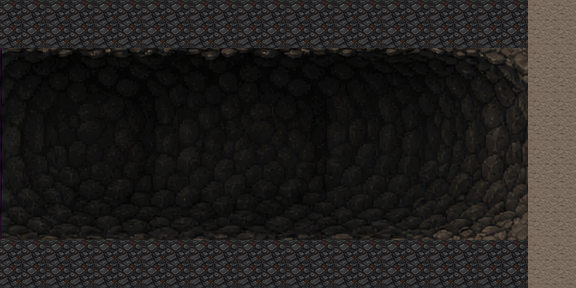
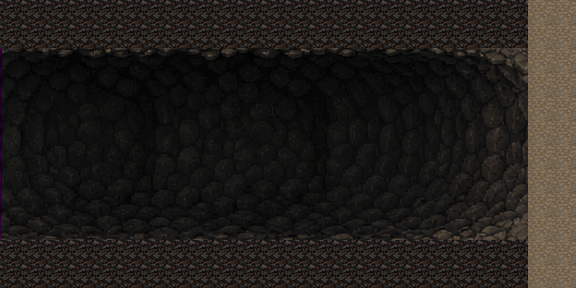
fix: place generated earth and bedrock in atlas

Changed region(s): [[0.0, 0.0, 1.0, 1.0]]

diff --git a/src/scenes/GameScene.ts b/src/scenes/GameScene.ts
@@ -24,7 +24,7 @@ import { atlasFrameForTile, backwallFrameForTile, tileKey, worldToTile } from '.
 type CursorKeys = Phaser.Types.Input.Keyboard.CursorKeys;
 type Facing = 'east' | 'west';
 
-const GENERATED_ASSET_VERSION = 'repeatable-bedrock-backwall-20260501-2233';
+const GENERATED_ASSET_VERSION = 'atlas-earth-bedrock-20260501-2246';
 const START_TUNNEL_LEFT_TILE = -10;
 const START_TUNNEL_TOP_TILE = -2;
 const START_TUNNEL_WIDTH_TILES = 12;
